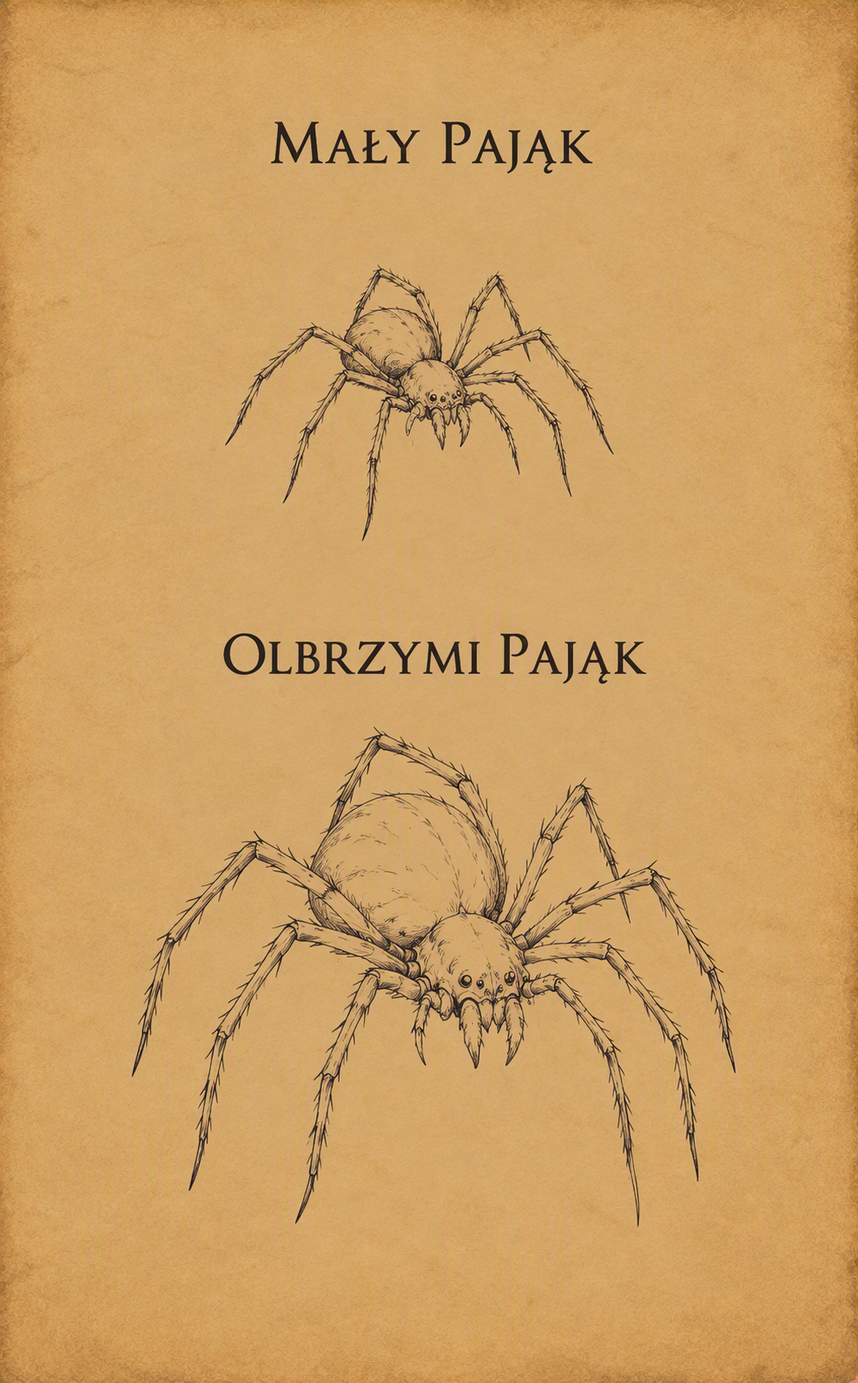
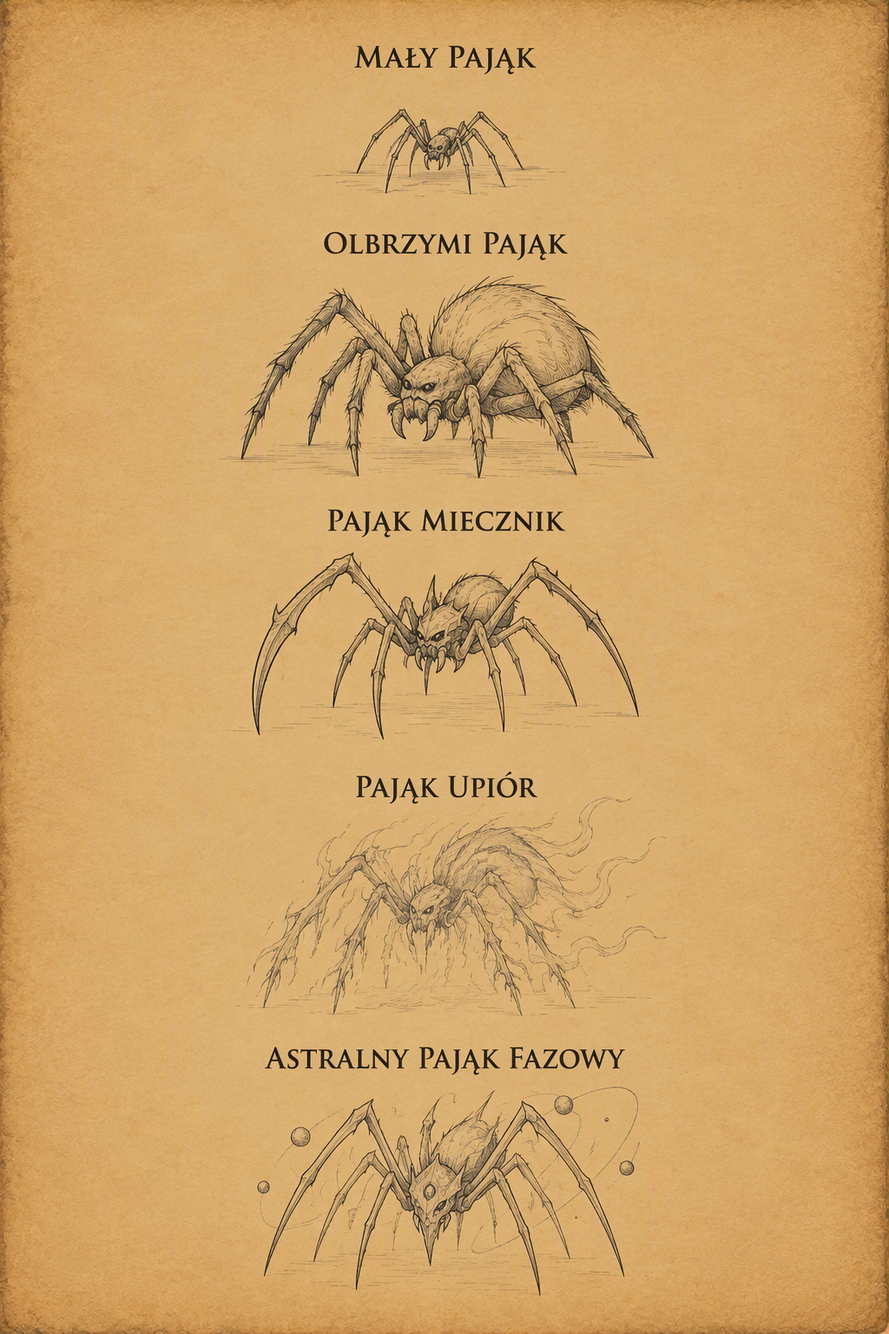
modified:   docs/images/orig/pajak.webp 	modified:   docs/images/pajak.webp 	new file:   docs/images/pazur_bestii.webp 	new file:   docs/images/zombie.webp 	modified:   docs/maps/BG2800.webp 	new file:   docs/maps/BG3200.webp 	new file:   docs/maps/BG3400.webp 	modified:   docs/maps/worldmap.webp 	m

diff --git a/docs/other/bestie.md b/docs/other/bestie.md
@@ -9,7 +9,7 @@
 |Niedźwiedziożuk|Najwięksi, najsilniejsi i najbardziej skryci pośród wszystkich istot goblinoidalnych. Mierzący ponad dwa metry wzrostu, porośnięci gęstym futrem bugbearzy łączą brutalną siłę fizyczną z zaskakującą naturalną zręcznością. W przeciwieństwie do głośnych i zdyscyplinowanych hobgoblinów, bugbearzy preferują samotne łowy lub działanie w małych grupach, specjalizując się w cichym skradaniu się i organizowaniu krwawych zasadzek. W walce wykorzystują swoją ogromną masę oraz broń obuchową i sieczną, atakując z zaskoczenia z siłą zdolną zdruzgotać pancerz wojownika w pierwszym uderzeniu.|[![Niedźwiedziożuk](../images/niedzwiedziozuk.webp){ .center-img width="30%" }](../images//niedzwiedziozuk.webp)|
 |Niedźwiedź|**Dziki niedźwiedź** - ten powszechnie spotykany na leśnych traktach i w dzikich ostępach drapieżnik to jedno z podstawowych zagrożeń dla początkujących wędrowców. Jest porywczy, wysoce terytorialny i w pełni polega na brutalnej sile. W walce natychmiast szarżuje na ofiarę, starając się przygnieść ją masą swojego cielska i zadać głębokie rany potężnymi uderzeniami pazurów, co czyni go niebezpiecznym przeciwnikiem.<BR>Niedźwiedź czarny - najmniejszy i najsłabszy przedstawiciel rodziny niedźwiedzi, zamieszkujący obrzeża lasów, jaskinie i górskie przełęcze. Z natury jest znacznie mniej agresywny od swoich większych krewniaków – często zachowuje neutralność i po prostu ignoruje wędrowców, dopóki nie zostanie bezpośrednio zaatakowany. |[![Niedźwiedź](../images/niedzwiedz.webp){ .center-img width="30%" }](../images/niedzwiedz.webp)|
 |Ogr|To ogromny, brutalny i wyjątkowo tępy stwór, stanowiący stałe zagrożenie na leśnych szlakach, w górskich przełęczach oraz opuszczonych ruinach Wybrzeża Mieczy. Mierzący ponad trzy metry wzrostu drapieżnik kieruje się wyłącznie wiecznym głodem i pierwotną agresją, rzadko dając się przekonać jakimkolwiek argumentom. W walce całkowicie ignoruje taktykę, polegając na niszczycielskiej sile swoich potężnych ramion i ciężkiej maczugi lub pnia drzewa. Choć jest powolny i łatwy do wyminęcia przez zwinnego wojownika, pojedyncze trafienie jego bronią potrafi zdruzgotać pancerz i powalić nawet doświadczonego poszukiwacza przygód.|[![Ogr](../images/ogr.webp){ .center-img width="30%" }](../images/ogr.webp)|
-|Pająk|**Mały pająk** - mimo iż z nazwy „mały”, ten obrzydliwy stawonóg rozmiarem dorównuje wyrośniętemu psu i stanowi śmiertelne zagrożenie dla samotnych wędrowców. Poruszając się na długich, owłosionych odnóżach z zaskakującą prędkością, zamieszkuje zarośnięte knieje, mroczne jaskinie oraz zapomniane krypty. Zamiast czekać w sieci, często aktywnie tropi swoje ofiary, by powalić je ciężarem własnego ciała i zatopić w nich wielkie kły. Jego jad wywołuje natychmiastowe odtwienie i paraliż mięśni, co pozwala stworzeniu sprawnie owinąć obezwładniony łup w szczelny kokon z pajęczyny.<BR>**Olbrzymi pająk** - większy od dorosłego człowieka, straszliwy pajęczak zamieszkujący mroczne ostępy głębokich lasów, jaskinie oraz starożytne podziemia. W przeciwieństwie do swoich zwykłych pobratymców, olbrzymi pająk nie poluje wyłącznie na drobne stworzenia – jego celem jest każda istota, która wplącze się w rozciągniętą między drzewami lub skałami sieć. Jest urodzonym drapieżnikiem z zasadzki: cierpliwie czuje drgania nici, by błyskawicznie dopaść skrępowaną ofiarę. Jego potężne szczęki (szczękoczułki) wstrzykują paraliżujący jad, który osłabia atakowanego i powoli go uśmierca, pozwalając bestii na owinięcie zdobyczy w kokon i spokojny posiłek.|[![Mały pająk](../images/pajak.webp){ .center-img width="30%" }](../images/pajak.webp)|
+|Pająk|**Mały pająk** - mimo iż z nazwy „mały”, ten obrzydliwy stawonóg rozmiarem dorównuje wyrośniętemu psu i stanowi śmiertelne zagrożenie dla samotnych wędrowców. Poruszając się na długich, owłosionych odnóżach z zaskakującą prędkością, zamieszkuje zarośnięte knieje, mroczne jaskinie oraz zapomniane krypty. Zamiast czekać w sieci, często aktywnie tropi swoje ofiary, by powalić je ciężarem własnego ciała i zatopić w nich wielkie kły. Jego jad wywołuje natychmiastowe odtwienie i paraliż mięśni, co pozwala stworzeniu sprawnie owinąć obezwładniony łup w szczelny kokon z pajęczyny.<BR>**Olbrzymi pająk** - większy od dorosłego człowieka, straszliwy pajęczak zamieszkujący mroczne ostępy głębokich lasów, jaskinie oraz starożytne podziemia. W przeciwieństwie do swoich zwykłych pobratymców, olbrzymi pająk nie poluje wyłącznie na drobne stworzenia – jego celem jest każda istota, która wplącze się w rozciągniętą między drzewami lub skałami sieć. Jest urodzonym drapieżnikiem z zasadzki: cierpliwie czuje drgania nici, by błyskawicznie dopaść skrępowaną ofiarę. Jego potężne szczęki (szczękoczułki) wstrzykują paraliżujący jad, który osłabia atakowanego i powoli go uśmierca, pozwalając bestii na owinięcie zdobyczy w kokon i spokojny posiłek.<BR>**Pająk miecznik** - przerażający, wysoce agresywny pajęczak o chitynowym pancerzu gęsto naszpikowanym ostrymi jak brzytwa wyrostkami i kolcami. Jego odnóża zakończone są wydłużonymi, twardymi kościanymi ostrzami, którymi sprawnie szlachtuje i patroszy swoje ofiary. Zamiast tkania klasycznych sieci preferuje bezpośrednią, brutalną szarżę – dopada cel furiackim skokiem, zamieniając impet uderzenia w krwawą siekankę.<BR>**Pająk-upiór** - ciemny, nieumarły pajęczak zrodzony z nekrotycznej energii oraz cieni, którego półmaterialne ciało wydaje się spowite kłębiącym się dymem. Posiada matowy, obmierzły pancerz przerosły mrokiem oraz świecące zimnym blaskiem ślepia. Z łatwością przenika przez lite ściany i przeszkody, a jego ataki omijają pancerz fizyczny, uderzając bezpośrednio w siły witalne i trwale osłabiając ciało ofiary.<BR>**Astralny pająk fazowy** - głębinowy drapieżnik sferyczny o pancerzu mieniącym się srebrzysto-fioletową łuną kosmicznej energii. Wykorzystuje nagięcia w strukturze rzeczywistości do natychmiastowego przenikania między Planem Materialnym a Astralnym. Materializuje się tuż za plecami niczego niespodziewającego się celu, zadaje błyskawiczne ugryzienie nasycone niszczycielską magią oraz jadem, po czym natychmiast znika w krainie sfer, uniemożliwiając wyprowadzenie kontry.|[![Mały pająk](../images/pajak.webp){ .center-img width="30%" }](../images/pajak.webp)|
 Pełzacz ścierwojad|Głęboko w podziemnych korytarzach, tam gdzie zapach wilgoci miesza się z odorem rozkładu, po ścianach i sufitach bezszelestnie mknie Pełzacz Ścierwojad. Ten gigantyczny, obrzydliwy stawonóg jest wiecznie głodną czystką podziemi – zwabiony zapachem krwi i śmierci, poluje z zaskoczenia, spadając na niczego niespodziewających wędrowców wprost z ciemności. Wokół jego szczczęk wije się pęk obrzydliwych macek ociekających paraliżującym śluzem; wystarczy jedno muśnięcie, by śmiałek zastygł w bezruchu, bezradnie patrząc, jak stwór powoli wciąga go do swojego leża, by pożreć go żywcem.|[![Pełzacz ścierwojad](../images/pelzacz_scierwojad.webp){ .center-img width="30%" }](../images/pelzacz_scierwojad.webp)|
 |Pies|**Pies bojowy** - treningowo przygotowany, udomowiony ogar, wyhodowany do walki u boku żołnierzy, strażników lub poszukiwaczy przygód. Wyróżnia się czujnością, wysoką Karnością oraz odpornością na strach. W walce polega na pędzie i powaleniu celu za pomocą potężnego uścisku szczęk, ułatwiając swemu panu zadanie wykończającego ciosu.<BR>**Dziki pies** - wychudzony, żyjący w stadach drapieżnik, zamieszkujący obrzeża miast, pustkowia oraz ruiny. Samotnie nie stanowi większego zagrożenia i jest płochliwy, jednak w grupie wykorzystuje taktykę sfory, zyskując przewagę w atakach, gdy w pobliżu ofiary znajduje się przynajmniej jeden z jego pobratymców.|[![Pies](../images/pies.webp){ .center-img width="30%" }](../images/pies.webp)|
 |Rozbójnik|**Rozbójnik** - zwykły oprych, zbój lub dezerter, który porzucił prawo na rzecz łatwego zysku na szlakach handlowych Wybrzeża Mieczy. Odziany w skórzaną zbroję i uzbrojony w miecz, topór lub krótki łuk, rzadko działa w samotności, preferując zasadzki w rejonach leśnych i na mało uczęszczanych traktach. Choć pojedynczo nie stanowi wielkiego wyzwania dla doświadczonych wędrowców, w grupie bywa śmiertelnie niebezpieczny – zwłaszcza gdy zasypuje swoją ofiarę gradem strzał z ukrycia.<BR>**Rozbójnik karawanowy** - wyspecjalizowany zbir, należący do dobrze zorganizowanych grup przestępczych, które polują bezpośrednio na bogate transporty kupieckie. W przeciwieństwie do zwykłego oprycha, charakteryzuje się większą dyscypliną, lepszym wyekwipowaniem oraz brakiem skrupułów. Doskonale zna słabe punkty chroniących strażników i metody szybkiego paraliżowania wozów, przez co starcie z nim wymaga od drużyny znacznie większej ostrożności i szybkiej eliminacji celów na odległość.|[![Rozbójnik](../images/bandyta.webp){ .center-img width="30%" }](../images/bandyta.webp)|
@@ -19,6 +19,7 @@ Pełzacz ścierwojad|Głęboko w podziemnych korytarzach, tam gdzie zapach wilgo
 |Wąż|Olbrzymi wąż to groźny, kilkunastometrowy drapieżnik zamieszkujący gęste dżungle, bagna oraz mroczne zalane podziemia. Porusza się bezszelestnie w gęstwinie lub pod powierzchnią wody, atakując z zaskoczenia z szybkością uderzenia pioruna. W zależności od gatunku, zabija błyskawicznym ukąszeniem wstrzykującym śmiercionośny jad lub oplata ofiarę potężnym, umięśnionym ciałem, dławiąc ją i miażdżąc kości przed połknięciem w całości.|[![Olbrzymi Wąż](../images/waz.webp){ .center-img width="30%" }](../images/waz.webp)|
 |Wilk|**Wilk** - Klasyczny drapieżnik o smukłej, wydłużonej sylwetce i gęstej, chroniącej przed mrozem sierści. Długie, dryblasowate kończyny zapewniają mu niezwykłą wydolność podczas wyczerpujących pościgów, a precyzyjny uścisk mocnych szczęk i wyostrzony węch czynią z niego bezszelestnego łowcę przemierzającego dzikie knieje w zwartej watasze.<BR>**Straszliwy wilk** - Monstrualna bestia o potężnym kośćcu, głębokiej klatce piersiowej i masywnym karku zwieńczonym sztywną, jeżącą się grzywą. Posiada szeroką czaszkę z gigantycznymi kłami zdolnymi do kruszenia pancerzy oraz siłę mięśniową pozwalającą na taranowanie przeszkód i powalanie dorosłego jelenia lub jeźdźca jednym impetem.<BR>**Worg** - Złośliwy, wysoce agresywny drapieżnik o spadzistym zadzie, nieproporcjonalnie szerokich barkach i szorstkiej, poszarpanej sierści. Cechuje go krótsza, masywna pyskoczaszka z stale odsłoniętymi zębami oraz pałające inteligencją, okrutne spojrzenie żółtych lub czerwonawych ślepi.<BR>**Wampiryczny wilk** - Skażona mroczną energią bestia o smołowo czarnym futrze i szkarłatnie płonących oczach. Jego ciało pozbawione jest tętna oraz oddechu, a w trupio bladym pysku wyróżniają się nadnaturalnie wydłużone, ostre jak igły kły, służące do przebijania tętnic i łczyczego wyssania sił witalnych ze swych ofiar.|[![Wilk](../images/wilk.webp){ .center-img width="30%" }](../images/wilk.webp)|
 |Xvart|Te niewielkie, niebieskoskóre i krzykliwe stworzenia stanowią jedno z najbardziej uciążliwych zagrożeń na dzikich obszarach Wybrzeża Mieczy. Znane ze swojej niespotykanej tchórzliwości, xvarty rzadko atakują w pojedynkę – szukają przewagi w przytłaczającej liczebności, nękając podróżnych głośnym wrzaskiem i atakując chmarami z ukrycia. Uzbrojeni w prymitywne sztylety, krótkie miecze lub proce, w walce bezczelnie wykorzystują swoją zwinność, jednak wystarczy powalić kilku z nich lub ich przywódcę, by reszta uciekła w popłochu w gęstwiny.|[![Xvart](../images/xvart.webp){ .center-img width="30%" }](../images/xvart.webp)|
+#|Zombie|Powolny, nieposiadający własnej woli nieumarły, powołany do życia przez mroczną nekromancję lub skażony pośmiertnym plagiatorstwem. Jego ciało znajduje się w różnym stadium rozkładu – od świeżo pochowanych zwłok ze stężałą, trupią skórą, po gnijące, otwarte rany odsłaniające mięśnie i kości. Zombie nie odczuwa bólu, strachu ani zmęczenia; porusza się ciężkim, nierównym krokiem, powoli lecz nieuchronnie prąc naprzód. W walce prze do przodu bez względu na odniesione obrażenia, atakując miażdżącym ciężarem własnego ciała, kłami oraz powiązanymi siłą woli pazurami, by rozszarpać żywe tkanki.|[![Szczur](../images/zombie.webp){ .center-img width="30%" }](../images/zombie.webp)|
 
 
 

diff --git a/docs/storyline/chapter1-5.md b/docs/storyline/chapter1-5.md
@@ -36,6 +36,8 @@ W nawiedzonym domu drużyna nawiązała kontakt z **Torqionem**, duchem uwięzio
 
 Dnieje i wracamy do miasta.
 
+Bestiariusz: Czarny niedźwiedź, Pies bojowy, Hobgoblin, Straszliwy wilk (dread wolf), Dziki pies, Worg, Wapiryczny wilk, Pająk miecznik, Astralny pająk fazowy, Zombie, Pająk upiór
+
 -----
 Zaglądamy do domu wskazanego przez Eloran (40). Spotykamy Malicię i jej partnera domu, którzy przeprowadzili się tu z Daggerford. Poprzedni właściciel umarł a jego żona sprzedała dom i zatrzymała się w „Czerwonym Bukiecie”, dopóki nie załatwi swoich spraw, by przenieść się do Wrót Baldura. Na górze przebywa duch, który ciągle mówi o swoich monetach?
 W karczmie (11) faktycznie przebywała wdowa i przekazała nam zestaw monet, który kolekcjonował jej mąż. Chciała go zatrzymać jako pamiątkę po nim. Zagadujemy także Tulbora, który wypełnił pustą butelkę jaka została nam ze śledztwa eliksirem uzdrawiającym.
@@ -46,6 +48,40 @@ Udając się do Oka Gorgony (29) drużyna ponownie spotkała **Pontaga** (28), k
 
 W siedzibie gildii przekazujemy Liedel wisiorek Vapuli i otrzymujemy nagrodę. Miejmy nadzieje, że nawrócony rzezimieszek znajdzie swoją własną drogę (LIEDEL’S BOUNTY: VAPULA SIMBERG 41).
 
+Umieszczamy spreparowaną wiadomość do do beczki za Płonącym Czarodziejem (41) i zamierzamy zaczaić się na zdrajće w nocy (SHADOWS AND ECHOES 46).
+------
 
-Bestiariusz: Czarny niedźwiedź, Pies bojowy, Hobgoblin, Straszliwy wilk (dread wolf), Dziki pies, Worg, Wapiryczny wilk, Pająk miecznik, Astralny pająk fazowy, Zombie, Pająk upiór
+Wracamy do świątyni Lathandera zdać raport Eloran (AN ORDINARY HUNTING 47). Kapłanka wynagrodziła kompanię złotem i miksturami, po czym przedstawił kolejne zadanie. Na szlaku pomiędzy *Beregostem* a *Pomocną Dłonią* zaczęli znikać podróżni. Początkowo podejrzewano bandytów, lecz jedyny ocalały wskazał na wyznawcę **Malara**, krwawego boga łowów. Malarzyci wierzyli, że przeżyć powinni wyłącznie najsilniejsi, a przemoc uznawali za jedyny naprawdę zrozumiały język. **Eloran** poleciła odnaleźć sprawcę przy trakcie. Według ostatnich informacji kryjówka mogła znajdować się w najbardziej wysuniętych na południe klifach. Choć **Lathander** nauczał o odkupieniu, kapłanka przypomniała, że przemiana wymaga woli winowajcy, a z decyzją nie można czekać, gdy w tym czasie giną niewinni (HUNTING THE HUNTSMAN 50).
 
+Docieramy do Pontag’a na południe od światyni (12) i zgadzam się wpbróbować razem z nim eliksir. Po chwili wpadam w omamy i rzeczywiście wydaje mi się, że widzę olbrzymiego żuka. Na szczęście po chwili efekt ustępuje i wracam do towarzyszy lekko otumaniony.
+Pontag widział to samo, ale sądzę, że to narkotyk i siła sugestii. Starzec poprosił mnie abyśmy się ponownie spotkali w Beregost (BEETLES, DREAMS AND AN OLD MAN 22).
+
+
+-----
+Czekając na zmierzch aby dorwać zdrajcę postanawiamy udać się na Przybrzeżny Szlak i odnaleźć bandytów wspominanych przez Eloran.
+Za dnia spotykamy tak Jase (7) małego, wystraszonego chłopca, który byc świadkiem ataku na karawanę. Nie udało nam sie go uspokoić i uciekł przed nami.
+
+Tuż koło karawany (8) pojawił się poszukiwany przez nas Malaryta i śmiejąc się nam w twarz zniknął za pobliskim drzewem. Okazała się, że pod darnią (9) znajdowało się wejście do tuneli.
+
+Poniżej w ciemności zaatakowały nas olbrzymie pająki, ale prąc naprzód dotarliśmy do naszego celu i zakończyliśmy problem (HAUNTING THE HUNTSMAN 50). Przy pokonanym wyznawcy **Malara** drużyna znalazła pierścień wykonany podobno z pazura jednej z ulubionych bestii Władcy Zwierząt. Przedmiot cuchnął krwią i lekko pulsował pod dotykiem. Nasycona dziką mocą błyskotka obdarzała właściciela skrytością i zaciekłością drapieżnika, lecz osłabiała rozsądek oraz zdolność obcowania z innymi.
+![Pazur Bestii](../images/pazur_bestii.webp){ .center-img width="20%" }
+
+Nasza chaotyczna czarodziejka - **Neera** przyznała, że odkąd dołączyła do drużyny, codzienne życie stało się dla niej zaskakująco łatwiejsze. Nie chodziło wprawdzie o wspólnie stawiane czoła potworom i innym zagrożeniom, lecz o zwykłe poczucie bezpieczeństwa. Po raz pierwszy od dawna nie musiała zasypiać z obawą, że w nocy kobold poderżnie jej gardło albo kolejny pościg zmusi ją do ucieczki. Adeptka Dzikiej Magii opowiedziała również o swoim dzieciństwie w *Wysokim Żywopłocie*. Przyznała, że nigdy nie była pilną uczennicą, a część jej problemów wynikała z unikania nauki i lekceważenia ćwiczeń. Podczas jednego z treningów miała przywołać kulę ognia, lecz zaklęcie wymknęło się spod kontroli. Uczniowie uciekali w panice, a dwie osoby zostały ranne. Choć wszyscy przeżyli, przerażona dziewczyna nie potrafiła stawić czoła konsekwencjom i uciekła. Przez pewien czas ukrywała się w lesie, kradnąc jedzenie i pozostawiając rodzicom krótkie wiadomości. Ostatecznie musiała jednak opuścić rodzinne strony. Błąkała się po *Wysokim Lesie*, podejmując kolejne niefortunne decyzje, aż zainteresowali się nią Thayanie. Leech zapewnił, że nie zamierza jej osądzać. Każdy mógł spanikować, gdy magiczny trening nagle zamieniał salę lekcyjną w płonące pobojowisko. **Neera** nie potrafiła jeszcze zdecydować, dokąd prowadzi jej droga, lecz cieszyła się, że może kontynuować ją u boku drużyny. Po raz pierwszy od dawna nie musiała uciekać samotnie ani zastanawiać się, czy następny błąd ponownie odbierze jej wszystko.
+
+Jej opowieść przeważyła i podjęliśmy decyzję o odwiedzinach bliskiego Neerze miejscu.
+
+Bestiariusz: Olbrzymi pająk 
+
+----
+
+Jen’lig poprosiła mnie o zwykły srebrny naszyjnik, który znajdował się w torbie podróżnej a następnie przeistoczyła go w magiczną ochronę przeciwko łupieżcom umysłu.
+
+Po wschodniej stronie obwarowań siedzimy maga (1) atakuje nas grupa gnolli i znajdujemy w ich rzeczach poszukiwany przez Perdue mieczyk (PERDUE’S SHORT SWORD 23).
+
+Na schodach przed drzwiami (2) drużyna spotkała zdesperowaną **Aivell**, której mąż **Tonder** został zaatakowany przez wielką bestię podczas wędrówki po okolicznych wzgórzach. Przed pożarciem uratował go **Thalantyr**, lecz odniesione rany nie były zwyczajne. Stan mężczyzny stopniowo się pogarszał, aż dwie noce wcześniej przemienił się na oczach żony w wilkołaka. **Aivell** błagała starego maga o przygotowanie lekarstwa, ale ten nie chciał jej wysłuchać. **Neera**, poruszona losem małżonków, obiecała porozmawiać z **Thalantyrem** i przekonać go do sporządzenia antidotum. Zrozpaczona kobieta przyznała, że jeśli wszystkie próby zawiodą, może nie pozostać inne wyjście niż zabicie przemienionego **Tondera**. Prosiła jednak, aby najpierw wykorzystać każdą możliwość ocalenia męża (OF WOLVES AND MEN 51).
+
+Nieopodal (3) natknęli się na **Permidiona Starka**, złodzieja pochłoniętego planowaniem „największego skoku wszech czasów”. Celem był potężny mag mieszkający nieopodal i posiadający pokaźną kolekcję magicznych przedmiotów. Problem stanowiły pilnujące posiadłości monstrualne bestie, zbyt silne do pokonania w bezpośredniej walce i pozostawiające niewiele cieni, w których można byłoby się ukryć. **Permidion** podejrzewał jednak, że stworzenia da się przechytrzyć lub odciągnąć od posterunków. Sam nie wiedział jak, dlatego zasugerował poszukanie informacji w pobliskiej wiosce niziołków. **Imoen** i **Jen’lig** nie szczędziły mu przy tym złośliwych uwag, skutecznie zakłócając jego „genialny” tok myślenia. Leech postanowił zapamiętać sprawę. Jeśli mieszkańcy wioski znali słabość bestii, kolekcja maga mogła wkrótce zmienić właściciela.
+
+Zajrzeliśmy do domu Aiwell (4) i zgodnie z oczekiwaniami w środku zobaczyliśmy wilkołaka. Nie zaatakował nas i szybko opuściliśmy izbę. Wrócimy, jeśli znajdziemy lek.
+
+Bestiariusz: Gnoll, Gnoll rozpruwacz, Gnoll weteran, Dzik, Dziki pies, Ghoul, Wielki pająk, Szkielet

diff --git a/docs/other/zadania.md b/docs/other/zadania.md
@@ -47,10 +47,23 @@
 |Blades in the Night|Wykonane|[Zobacz szczegóły](#q-44)|
 |Moonlight Retrieval|Wykonane|[Zobacz szczegóły](#q-45)|
 |Shadows and Echoes|Aktywny|[Zobacz szczegóły](#q-46)|
-|An Ordinary Hunting|Aktywny|[Zobacz szczegóły](#q-47)|
+|An Ordinary Hunting|Wykonane|[Zobacz szczegóły](#q-47)|
 |Drunk near Beregost Temple|Wykonane|[Zobacz szczegóły](#q-48)|
 |Phantom East of Beregost|Aktywny|[Zobacz szczegóły](#q-49)|
+|Hunting the Huntsman|Aktywny|[Zobacz szczegóły](#q-50)|
+|Of Wolves and Men|Aktywny|[Zobacz szczegóły](#q-51)|
 
+??? warning "Of Wolves and Men"
+    - **Zleceniodawca:** Aiwell na schodach siedziby maga w Wysokim Żywopłocie.
+    - Mąż Aiwell zamienia się w wilkołaka, czy możemy temu zapobiec?
+    - Porozmawiajmy z Thalantyrem.
+    <div id="q-51"></div>
+
+??? warning "Hunting the Huntsman"
+    - **Zleceniodawca:** Eloran w świątynik Lathandera w Beregost.
+    - Na trakcie między Beregost a Pomocną Dłonią grasuje banda wyznawców Malara. Trzeba z tym zrobić porządek.
+    - Wyznawca był jeden i już nikomu nie zagrozi. Miał kryjówke w tunelach obok zaatakowanych karawan.
+    <div id="q-50"></div>
 
 ??? warning "Phantom East of Beregost"
     - **Zleceniodawca:** Torgion w grobowcu w górach przy świątyni Lathandera.
@@ -63,11 +76,12 @@
     - Wspomnieliśmy o nim Kelddathowi w światyni i obiecał się nim zająć.
     <div id="q-48"></div>
 
-??? warning "An Ordinary Hunting"
+??? success "An Ordinary Hunting"
     - **Zleceniodawca:** Eloran w świątynik Lathandera w Beregost.
     - Trzeba sprawdzić nawiedzony dom w Beregost na przeciw Płonącego Czarodzieja.
     - W domu duch dawnego właściciela nie może za zaznać spokoju dopóki nie wrócą do niego jego numizmatyczne zbiory.
     - Udaje na się je odebrać od wdowy i przywrócić spokój domowi.
+    - Składamy raport Eloran.
     <div id="q-47"></div>
 
 ??? warning "Shadows and Echoes"

diff --git a/docs/other/maps.md b/docs/other/maps.md
@@ -3,7 +3,9 @@
 | Mapa świata | Faerun | [![Candlekeep](../maps/worldmap.webp){ width="100" }](../maps/worldmap.webp) |
 | Candlekeep [1] | BG2600 | [![Candlekeep](../maps/BG2600.webp){ width="100" }](../maps/BG2600.webp) |
 | Lwi Trakt [2] | BG2700 | [![Lwi Trakt](../maps/BG2700.webp){ width="100" }](../maps/BG2700.webp) |
-| Nadbrzeżny Trakt [3] | BG2800 | [![Nadbrzeżny Trakt](../maps/BG2800.webp){ width="100" }](../maps/BG2800.webp) |
+| Nadbrzeżny Trakt [3, 9] | BG2800 | [![Nadbrzeżny Trakt](../maps/BG2800.webp){ width="100" }](../maps/BG2800.webp) |
 | Pod Pomocną Dłonią [4] | BG2300 | [![Pomocna Dłoń](../maps/BG2300.webp){ width="100" }](../maps/BG2300.webp) |
-| Beregost [5] | BG3300 | [![Beregost](../maps/BG3300.webp){ width="100" }](../maps/BG3300.webp) |
+| Beregost [5, 7, 8] | BG3300 | [![Beregost](../maps/BG3300.webp){ width="100" }](../maps/BG3300.webp) |
+| Świątynia Lathandera [6,8] | BG3400 | [![Świątynia Lathandera](../maps/BG3400.webp){ width="100" }](../maps/BG3400.webp) |
+| Wysoki Żywopłot [10] | BG3200 | [![Beregost](../maps/BG3200.webp){ width="100" }](../maps/BG3200.webp) |
 

diff --git a/docs/other/npc.md b/docs/other/npc.md
@@ -152,8 +152,14 @@
 |Galileus|BG3400|:material-check-circle:|oczywiście zapatrzony w gwiazdy|
 |Torqion|AR3905|:material-check-circle:|fantom w trzech postaciach co umrzeć chce|
 |Malicia|BG3311|:material-check-circle:|właścielka domu z duchem|
+|Jase|BG2800|:material-check-circle:|co karawany koniec obserwował|
+|Malaryta - bez imienia|BG2800|:material-close-circle:|🪦 - co dręczył ludzi na szlaku|
+|Aiwell|BG2300|:material-check-circle:|co za chłopa wilkołaka miała|
+|Permidion Stark|BG2300|:material-check-circle:|co Thalantyra okraść chciał|
 
-Świątynia Lathandera - przuświątynny westybuł - BG3401
+
+Wysoki Żywopłot - BG2300
+Świątynia Lathandera - przyświątynny westybuł - BG3401
 Świątynia Lathandera - wnętrze świątyni - BG3402
 Świątynia Lathandera - BG3400
 Beregost - Siedziba Travenhursta - BG3320
